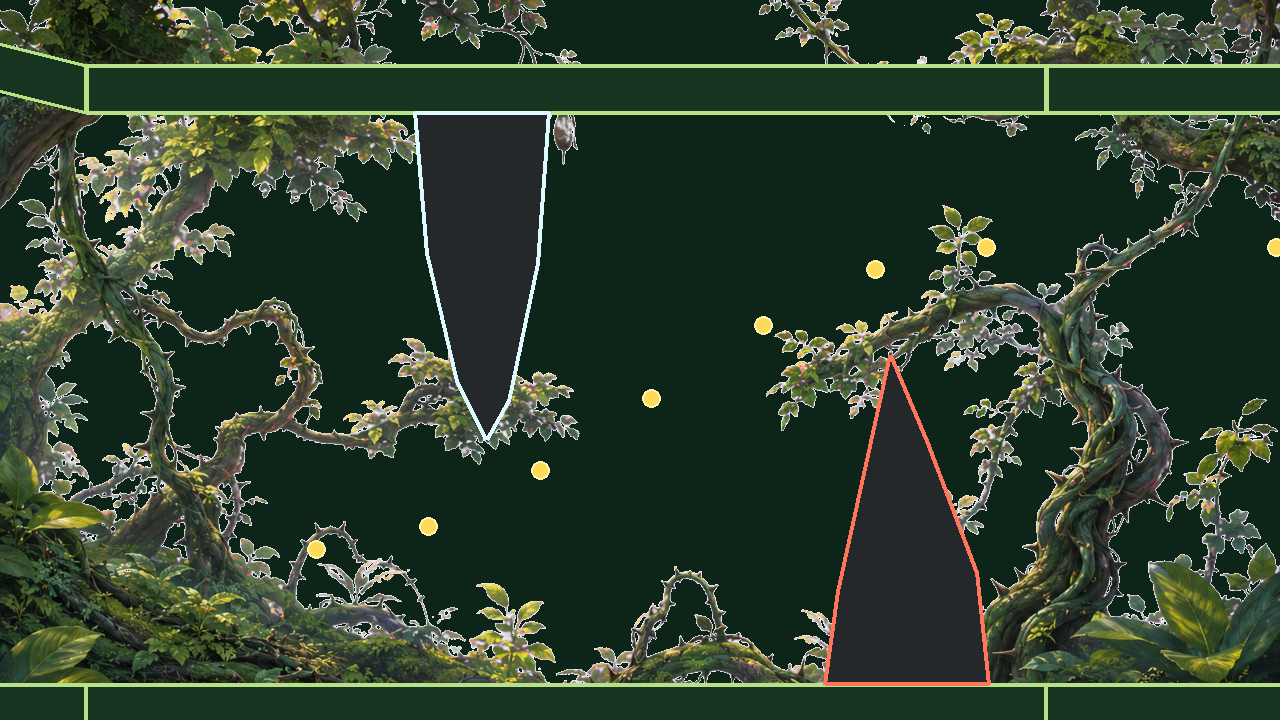
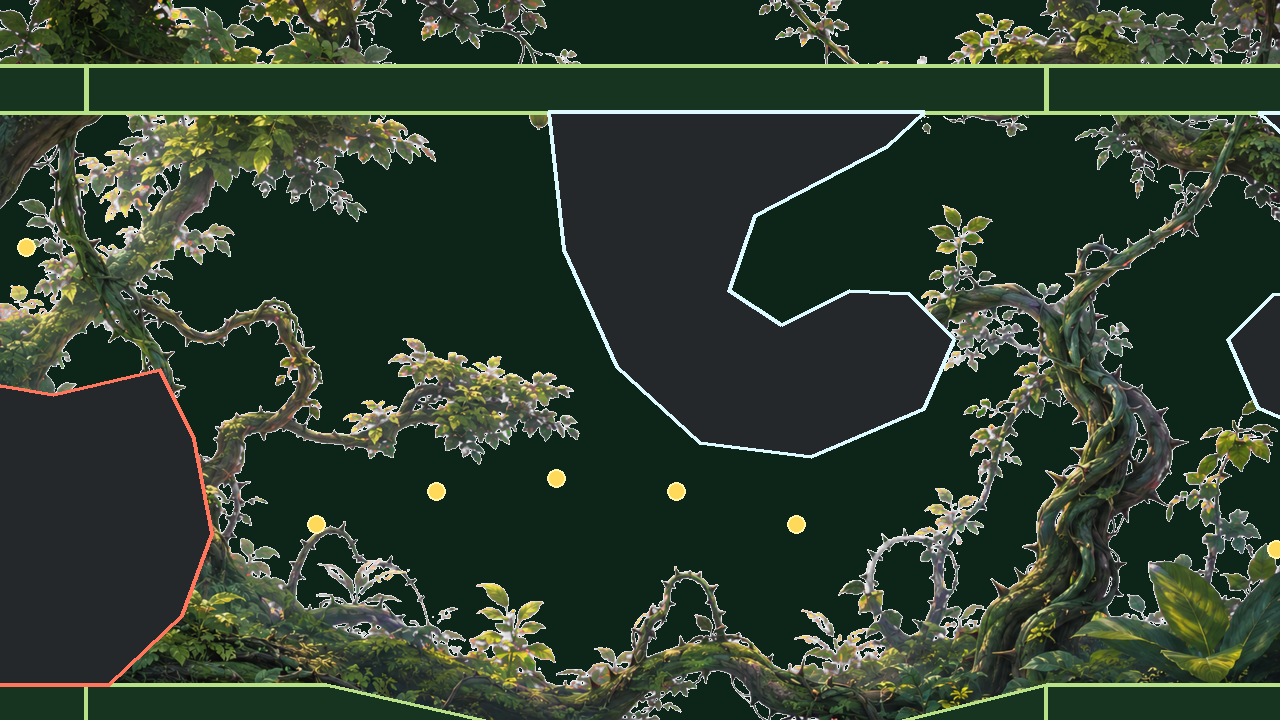
Reconcile zone evidence with Bramble identity

diff --git a/assets/source/zone-art/README.md b/assets/source/zone-art/README.md
@@ -35,7 +35,7 @@ collision data. Mixed assets list the independently modelled pieces.
 
 | Asset | Chroma/keyed source → runtime | Why this runtime size | Anchor rule | 25% silhouette result; possible confusion |
 | --- | --- | --- | --- | --- |
-| `silk-hollow-backdrop.png` | 1672×941 → 1280×720 | Exact reference viewport; avoids runtime resampling of the parallax frame. | **NOT** — presentation only. | **PASS:** concave membranes, radial ribs, hanging sacs. Nearest whole-zone overlap is Ancient Forest (IoU 0.488), but the void topology is webbed rather than trunked. |
+| `silk-hollow-backdrop.png` | 1672×941 → 1280×720 | Exact reference viewport; avoids runtime resampling of the parallax frame. | **NOT** — presentation only. | **PASS:** concave membranes, radial ribs, hanging sacs. Nearest whole-zone overlap is Bramble Canopy (IoU 0.492), but the void topology is webbed rather than braided. |
 | `silk-hollow-cocoon-cluster.png` | 1254×1254 → 512×512 | Square rotation-safe canvas for 110–240 px suspended hazards and mipmaps. | **ANCHORABLE** only when ceiling-grown; floor needles use separate code art and are **NOT**. | **PASS:** pear sacs plus spindle. Could be mistaken for Web City egg sacs in isolation; City is separated by long spans at zone scale. |
 | `ruined-arboretum-backdrop.png` | 1672×941 → 1280×720 | Exact viewport for gables and rectangular greenhouse bays. | **NOT** — presentation only. | **PASS:** rectilinear gables, window grids, circles. Nearest whole-zone overlap is Ancient Forest (0.462); no organic trunk rhythm remains. |
 | `ruined-arboretum-pane.png` | 1254×1254 → 512×512 | Square phase-safe canvas leaves room for the rest arc while the shard swings. | Composite: round pivot **ANCHORABLE**; glass edge **NOT** and lethal. | **PASS:** socket + articulated shard + arc. No other zone has this mechanical punctuation. |
@@ -82,14 +82,14 @@ all pairwise zone-silhouette overlaps are in
 
 The contact sheet is generated from the actual seeded CourseStream geometry at
 tick 137 plus each foreground backdrop, then reduced to pure black at 320×180
-(25% of 1280×720). The highest pair overlap is 0.518, between the two pre-existing
-forest zones. Every owned zone is below 0.488 against every other zone.
+(25% of 1280×720). The highest pair overlap is 0.550, between the two pre-existing
+forest zones. Every owned zone is below 0.493 against every other zone.
 
 | Zone | Result | Closest possible confusion |
 | --- | --- | --- |
-| Silk Hollow | **PASS** | Ancient Forest, 0.488; suspended cavities replace trunks. |
+| Silk Hollow | **PASS** | Bramble Canopy, 0.492; suspended cavities replace braided rails. |
 | Ruined Arboretum | **PASS** | Ancient Forest, 0.462; straight gables/grids remain unmistakable. |
 | Storm Ridge | **PASS** | Ashen Hollow, 0.396; open sky versus fractured enclosure. |
 | Web City | **PASS** | Silk Hollow, 0.303; horizontal civic spans versus hanging sacs. |
-| Ashen Hollow | **PASS** | Bramble Canopy, 0.423; severed braces versus living loops. |
+| Ashen Hollow | **PASS** | Silk Hollow, 0.418; severed braces versus suspended cavities. |
 | Deep Mist | **PASS** | Ancient Forest, 0.145; negative space dominates. |

diff --git a/docs/visual/zones/README.md b/docs/visual/zones/README.md
@@ -35,8 +35,8 @@ and active hazards from the same captured tick.
 
 ## Result
 
-The highest pair overlap is 0.518, between the two pre-existing forest zones.
-Every owned zone remains below 0.488 against every other zone. Per-zone nearest
+The highest pair overlap is 0.550, between the two pre-existing forest zones.
+Every owned zone remains below 0.493 against every other zone. Per-zone nearest
 confusion, every asset's exact source/runtime dimensions and rationale, its
 **ANCHORABLE**/**NOT** state, hashes, and source/runtime/25% fringe counts are
 recorded in `assets/source/zone-art/README.md` and `zone-art-audit.json`.
